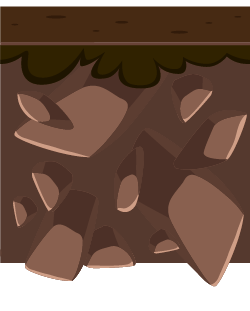
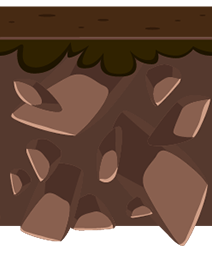
out of world deaths added,logica planet 2 plataformas largas hecha

diff --git a/game/assets/LargeFloor.ts b/game/assets/LargeFloor.ts
@@ -8,6 +8,7 @@ export type LargeFloorTween =
 export type LargeFloorConfig = {
   textureA: string;
   textureB: string;
+  textureC?: string
   width?: number;
   height?: number;
   fix?: number;
@@ -22,6 +23,7 @@ export type LargeFloorConfig = {
   large: number;
   rotated?: boolean;
   gap: number;
+  planeta?: number
 };
 // Scene in class
 class LargeFloor extends Phaser.GameObjects.Container {
@@ -47,12 +49,51 @@ class LargeFloor extends Phaser.GameObjects.Container {
     this.gap = config.gap
 
     //Intercalates the two textures
-    for (let index = 0; index < config.large; index++) {
-      const t = index % 2 == 0 ? config.textureA : config.textureB;
-      const s = scene.add.sprite(index * width  + this.gap, 0, t);
-      this.add(s)
-      this.sendToBack(s)
+    if (config.textureC) {
+      if (config.planeta === 2) {
+        for (let index = 1; index <= config.large; index++) {
+
+          if (index === 1) {
+            const s = scene.add.sprite(index * width + this.gap + 13, 0, config.textureA);
+            this.add(s).setDepth(9)
+          } else if (index === config.large) {
+            const s = scene.add.sprite(index * width + this.gap + 65, 0, config.textureC);
+            this.add(s).setDepth(9)
+          } else {
+            const s = scene.add.sprite(index * width + this.gap + 40, 15, config.textureB);
+            this.add(s)
+            if (config.scale) {
+              s.setScale(config.scale?.width + 0.64, config.scale?.height + 0.66)
+            }
+          }
+
+        }
+      } else {
+        for (let index = 1; index <= config.large; index++) {
+
+          if (index === 1) {
+            const s = scene.add.sprite(index * width + this.gap, 0, config.textureA);
+            this.add(s).setDepth(9)
+          } else if (index === config.large) {
+            const s = scene.add.sprite(index * width + this.gap, 0, config.textureC);
+            this.add(s).setDepth(9)
+          } else {
+            const s = scene.add.sprite(index * width + this.gap, 15, config.textureB);
+            this.add(s)
+          }
+
+        }
+      }
+
+    } else {
+      for (let index = 0; index < config.large; index++) {
+        const t = index % 2 == 0 ? config.textureA : config.textureB;
+        const s = scene.add.sprite(index * width + this.gap, 0, t);
+        this.add(s)
+        this.sendToBack(s)
+      }
     }
+
 
     //Set scale
     if (config.scale) {
@@ -65,7 +106,9 @@ class LargeFloor extends Phaser.GameObjects.Container {
     this.group.add(this);
 
     if (this.body) {
+
       const body = this.body as Phaser.Physics.Arcade.Body;
+ 
       body.setImmovable(true);
       // hitboxes largefloors
       if (rota) {
@@ -78,7 +121,7 @@ class LargeFloor extends Phaser.GameObjects.Container {
         body.setSize(height + fix, width * config.large);
         this.setRotation(Math.PI / 2);
       } else {
-        body.setSize(width * config.large + fix, height + fix);
+        body.setSize(width * config.large + fix, height + fix).setOffset(-160,-130);
       }
     }
   }

diff --git a/game/maps/planet2/p2Mapa1.ts b/game/maps/planet2/p2Mapa1.ts
@@ -132,7 +132,7 @@ class p2Mapa1 {
         const calcDiffY = (y2 - y - this.scene.cameras.main.displayHeight / 6) / 1;
         this.background.setPosition(x + calcDiffX, y + calcDiffY);
         this.background2.setPosition(x + calcDiffX, y + calcDiffY);
-        this.background3.setPosition(x + calcDiffX +600, y + calcDiffY).setScale(0.7);
+        this.background3.setPosition(x + calcDiffX + 600, y + calcDiffY).setScale(0.7);
         this.background4.setPosition(x + calcDiffX - 500, y + calcDiffY).setScale(0.7);
         this.background5.setPosition(x + calcDiffX, y + calcDiffY).setDepth(2);
         this.background6.setPosition(x + calcDiffX - 800, y + calcDiffY).setDepth(3);
@@ -186,15 +186,21 @@ class p2Mapa1 {
             this.portalInit
         ).setDepth(1);
 
-        const p1Config: FloorConfig = {
-            texture: "plataformaLvl1",
-            pos: { x: 570, y: 1650 },
-            scale: { width: 1, height: 0.3 },
+        const p1Config: LargeFloorConfig = {
+            pos: { x: 370, y: 1650 },
+            textureA: "plataformaInicioLvl1",
+            textureB: "plataformaMedioLvl1",
+            textureC: "plataformaFinLvl1",
+            scale: { width: 0.5, height: 0.5 },
             rotated: false,
-            width: 425,
-            height: 245
+            width: 234,
+            height: 246,
+            gap: -320,
+            fix: 0,
+            large: 4,
+            planeta: 2
         };
-        const p1 = new Floor(this.scene, p1Config, this.pisos);
+        const p1 = new LargeFloor(this.scene, p1Config, this.pisos).setDepth(9);
 
 
 
@@ -219,17 +225,24 @@ class p2Mapa1 {
         const p3 = new Floor(this.scene, p3Config, this.pisos2).setTint(
             Phaser.Display.Color.GetColor(255, 101, 0)
         );
-        const p4Config: FloorConfig = {
-            texture: "plataformaLvl1",
-            pos: { x: 1570, y: 1050 },
-            scale: { width: 0.8, height: 0.5 },
-            width: 455,
-            height: 110,
-            fix: 60,
+
+
+        const p4Config: LargeFloorConfig = {
+            pos: { x: 1270, y: 870 },
+            textureA: "plataformaInicioLvl1",
+            textureB: "plataformaMedioLvl1",
+            textureC: "plataformaFinLvl1",
+            scale: { width: 0.5, height: 0.5 },
             rotated: false,
-            inverted: true
+            width: 234,
+            height: 246,
+            gap: -320,
+            fix: 0,
+            large: 3,
+            planeta: 2,
+           
         };
-        const p4 = new Floor(this.scene, p4Config, this.pisos);
+        const p4 = new LargeFloor(this.scene, p4Config, this.pisos);
 
         const p5Config: FloorConfig = {
             texture: "plataformaLvl1",
@@ -334,7 +347,7 @@ class p2Mapa1 {
             // .setRotation(Math.PI / 2)
             .setSize(800, 1400);
 
-    
+
         const coinConfig: FloorConfig = {
             texture: "cristalLvl1",
             // pos: { x: 2300, y: 1100 },

diff --git a/game/LevelMap.ts b/game/LevelMap.ts
@@ -26,7 +26,7 @@ export default class LevelMap extends Phaser.Scene {
   planets: Phaser.GameObjects.Sprite[] = [];
   planetSelector!: Phaser.GameObjects.Image;
   selectedPlanetIndex: number = 0;
-  planetsShown: number = 0;
+  planetsShown: number = 2;
   graphic1?: Phaser.GameObjects.Graphics;
   graphic2?: Phaser.GameObjects.Graphics;
   graphic3?: Phaser.GameObjects.Graphics;
@@ -41,7 +41,7 @@ export default class LevelMap extends Phaser.Scene {
     super({ key: "LevelMap" });
   }
 
-  init(this: LevelMap,{ stagePoint }: any) {
+  init(this: LevelMap, { stagePoint }: any) {
     this.cursors = this.input.keyboard?.createCursorKeys();
     // console.log(stagePoint, "aca");
     this.planetsShown = stagePoint;
@@ -169,19 +169,7 @@ export default class LevelMap extends Phaser.Scene {
 
     this.add.image(this.cameras.main.width - 1700, 360, "nube5").setScale(0.7);
 
-    this.sun = this.add
-      .sprite(width - width / 8, height - height / 4.7, "sun")
-      .setScale(0.08)
-      .setTint(Phaser.Display.Color.GetColor(5, 5, 5));
-    this.sunText = this.add
-      .text(
-        this.sun.x,
-        this.sun.y + this.sun.displayHeight / 1.5,
-        "COMING SOON"
-      )
-      .setOrigin(0.5)
-      .setScale(1.2)
-      .setVisible(true);
+
 
     this.planetLevel2 = this.add
       .sprite(width - width / 2.8, height - height / 2.8, "lvl2", 1)
@@ -207,11 +195,31 @@ export default class LevelMap extends Phaser.Scene {
       )
       .setOrigin(0.5)
       .setScale(1.2)
-      .setVisible(true)
+      .setVisible(true);
 
-      ;
+    this.sun = this.add
+      .sprite(width - width / 12, height - height / 9.7, "sun")
+      .setScale(2.5)
+      .setTint(Phaser.Display.Color.GetColor(5, 5, 5));
+    const sunFrames = this.anims.generateFrameNumbers("sun", { frames: [0, 1, 2, 3, 4, 5, 6, 7, 8, 9, 10, 11, 12, 13, 14, 15, 16, 16, 17, 18, 19, 20, 21, 22, 23, 24, 25, 26, 27, 28, 29, 30, 31, 32, 33, 34, 35, 36, 37, 38, 39] });
+    const sunConfig = {
+      key: "sun",
+      frames: sunFrames,
+      frameRate: 12,
+      repeat: -1,
+    };
+    this.anims.create(sunConfig);
+    this.sun.anims.play("sun");
 
-
+    this.sunText = this.add
+      .text(
+        this.sun.x,
+        this.sun.y + this.sun.displayHeight / 1.5,
+        "COMING SOON"
+      )
+      .setOrigin(0.5)
+      .setScale(1.2)
+      .setVisible(true);
     this.planetLevel1 = this.add
       .sprite(width - width / 1.7, height - height / 1.77, "lvl1", 1)
       .setScale(1.3)
@@ -267,7 +275,7 @@ export default class LevelMap extends Phaser.Scene {
     this.monchi = this.add
       .sprite(width + 100, 150, "character", 20)
       .setScale(0.5)
-      .setDepth(9);
+      .setDepth(99);
     if (this.planetsShown == 0) {
       this.planets = [this.planetTutorial];
     } else if (this.planetsShown == 1) {

diff --git a/game/SceneLoader.ts b/game/SceneLoader.ts
@@ -51,10 +51,10 @@ const loadAssets = {
   LevelMap: {
     assets: [
       ["image", "backgroundLevelMap", "/game/backgroundLevelMap.png"],
-      ["image", "sun", "/game/sun.png"],
-      ["image", "planetTutorial", "/game/planetTutorialSprite.png"],
-      ["image", "planetLevel1", "/game/planetlvl1.png"],
-      ["image", "planetLevel2", "/game/planetlvl2.png"],
+      // ["image", "sun", "/game/sun.png"],
+      // ["image", "planetTutorial", "/game/planetTutorialSprite.png"],
+      // ["image", "planetLevel1", "/game/planetlvl1.png"],
+      // ["image", "planetLevel2", "/game/planetlvl2.png"],
       [
         "spritesheet",
         "tutorial",
@@ -71,6 +71,12 @@ const loadAssets = {
         "spritesheet",
         "lvl2",
         "/game/lvl2.png",
+        { frameWidth: 150, frameHeight: 150 },
+      ],
+      [
+        "spritesheet",
+        "sun",
+        "/game/sun.png",
         { frameWidth: 150, frameHeight: 150 },
       ],
     ],
@@ -123,9 +129,9 @@ const loadAssets = {
       ["image", "cristalLvl1", "/game/lvl1/cristalLvl1.png"],
 
       ["image", "plataformaLvl1", "/game/lvl1/plataformas/plataforma.png"],
-      ["image", "plataformaInicioLvl1", "/game/lvl1/plataformas/plataformaFin.png"],
-      ["image", "plataformaMedioLvl1", "/game/lvl1/plataformas/plataformaInicio.png"],
-      ["image", "plataformaFinLvl1", "/game/lvl1/plataformas/plataformaMedio.png"],
+      ["image", "plataformaInicioLvl1", "/game/lvl1/plataformas/plataformaInicio.png"],
+      ["image", "plataformaMedioLvl1", "/game/lvl1/plataformas/plataformaMedio.png"],
+      ["image", "plataformaFinLvl1", "/game/lvl1/plataformas/plataformaFin.png"],
 
 
       ["image", "piedra1", "/game/lvl1/plataformas/plataformaMedio.png"],
@@ -298,8 +304,8 @@ class SceneLoader extends Phaser.Scene {
 
   create(this: SceneLoader, { level }: any) {
     // this.scene.start("Sandbox", { data: 1 });
-    this.scene.start("Credits", { data: 1 });  
-    // this.scene.start("Game", { level: 0, lifes: 3 });
+    // this.scene.start("Menu", { data: 1 });
+    this.scene.start("Game", { level: 3, lifes: 3 });
   }
 
   update(this: SceneLoader) {

diff --git a/game/maps/sun/sMapa1.ts b/game/maps/sun/sMapa1.ts
@@ -140,7 +140,7 @@ class sMapa1 {
         const { x, y } = this.startingPoint;
         const { x: x2, y: y2 } = player;
         const calcDiffX = (x2 - x) / 1//mas grande menos movimiento
-        const calcDiffY = (y2 - y - this.scene.cameras.main.displayHeight / 6) / 1;
+        const calcDiffY = (y2 - y - this.scene.cameras.main.displayHeight / 6) ;
         this.background.setPosition(x + calcDiffX, y + calcDiffY);
         this.background2.setPosition(x + calcDiffX, y + calcDiffY);
         this.background3.setPosition(x + calcDiffX, y + calcDiffY);

diff --git a/game/assets/backgroundFLoor.ts b/game/assets/backgroundFLoor.ts
@@ -1,0 +1,23 @@
+import Phaser from "phaser";
+import Game from "../Game";
+export type bgFloorConfig = {
+    texture: string,
+    screenWidth?: number,
+    pngWidth?: number,
+    pos: { x: number, y: number },
+    scene: Game
+}
+class backgroundFloor extends Phaser.GameObjects.Container {
+    texture: string
+    constructor(
+        config: bgFloorConfig,
+    ) {
+        super(config.scene, config.pos.x, config.pos.y)
+        this.texture = config.texture
+    }
+
+    create() {
+
+    }
+
+}

diff --git a/game/Game.ts b/game/Game.ts
@@ -643,6 +643,8 @@ class Game extends Phaser.Scene {
             this.loseLevel2();
           } else if (data.level == 0) {
             this.loseLevelTutorial();
+          } else {
+            this.lose()
           }
         }
       },
